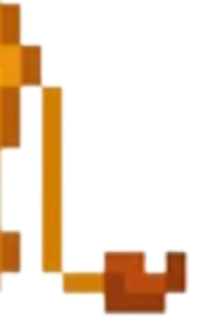
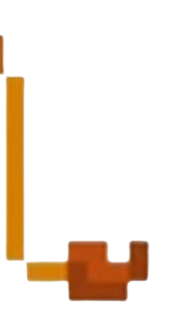
ah

Changed region(s): [[0.0, 0.0, 0.884, 0.9745]]

diff --git a/app/src/views/HomeCreate.vue b/app/src/views/HomeCreate.vue
@@ -1,6 +1,7 @@
 <template>
   <div class="MainLayout">
     <div class="BigBox">
+      <h1>Creation</h1>
       <div class="head"><img :src="implantedParts.head" class="part" /></div>
       <div class="body"><img :src="implantedParts.body" class="part" /></div>
       <div class="legs"><img :src="implantedParts.legs" class="part" /></div>
@@ -19,7 +20,12 @@
 import { reactive, ref } from 'vue'
 import AnimalList from '@/views/AnimalList.vue'
 
-let implantedParts = reactive({ head: null, body: null, legs: null, tail: null })
+let implantedParts = reactive({
+  head: '/white.png',
+  body: '/white.png',
+  legs: '/white.png',
+  tail: '/white.png',
+})
 
 function implant(animalPart) {
   implantedParts[animalPart.type] = animalPart.image
@@ -83,20 +89,20 @@ const AnimalParts = ref([
 }
 
 .head {
-  top: 60px;
+  top: 110px;
   left: 25%;
   transform: translateX(-50%);
   z-index: 2;
 }
 
 .tail {
-  top: 190px;
-  right: -90px;
+  top: 180px;
+  right: -40px;
   z-index: 0;
 }
 
 .legs {
-  bottom: 42px;
+  bottom: 100px;
   left: 50%;
   transform: translateX(-50%);
   z-index: 0;
